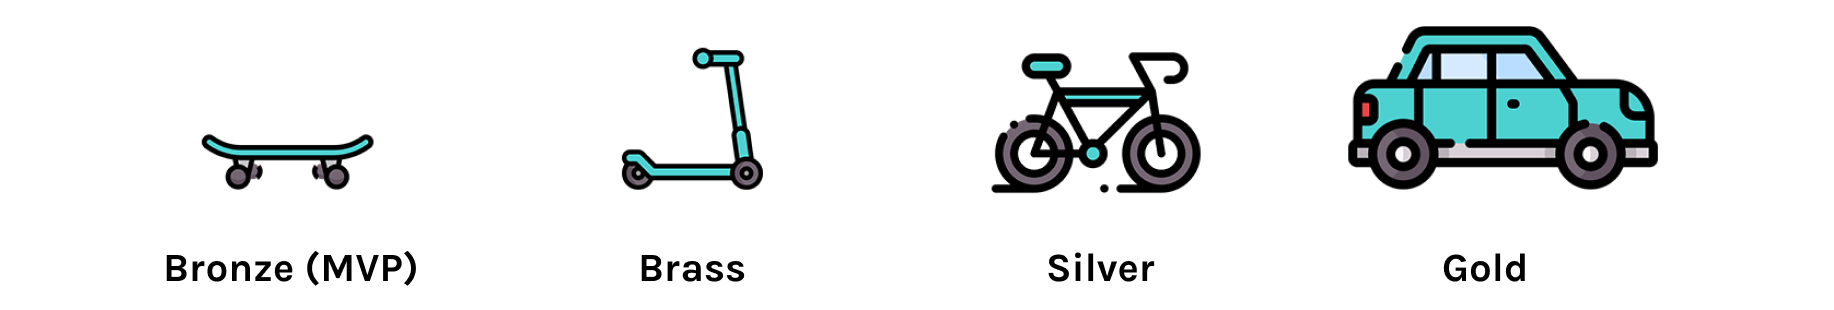
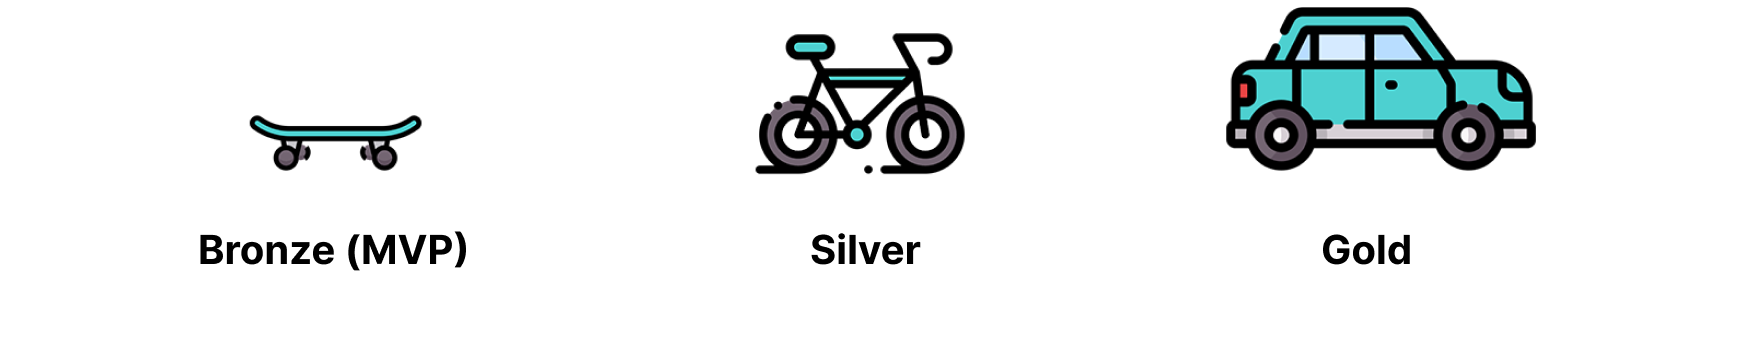
Sept 20

diff --git a/lbt.html b/lbt.html
@@ -232,8 +232,8 @@
             <div class="latest"></div>
             <div class="as-of">
                 <div class="stuff">
-                    Working alonside the product manager, we devised a roadmap to iterate and deploy 4 versions of
-                    LBT: Bronze (MVP), Brass, Silver, and Gold. Each deployment was scoped with their own feature sets
+                    Working alonside the product manager, we devised a roadmap to iterate and deploy 3 versions of
+                    LBT: Bronze (MVP), Silver, and Gold. Each deployment was scoped with their own feature sets
                     to ensure that LCOs were delivered their “must-haves” at the very least.
 
                 </div>
@@ -317,7 +317,7 @@
                 </div>
             </div>
 
-            <div class="title">Brass</div>
+            <div class="title">Silver</div>
 
             <div class="latest">
                 <div class="columns-2">
@@ -358,7 +358,8 @@
 
                         <div class="stuff">
                             However, unlike Bronze, where a PDF of a single label is immediately downloaded upon
-                            print confirmation, in Brass, when a product is selected, they are added to a Printing List.
+                            print confirmation, in Silver, when a product is selected, they are added to a Printing
+                            List.
                             <br><br>
 
                             When the user proceeds to print, all items in
@@ -373,13 +374,13 @@
                         </div>
 
                         <div class="prototype2">
-                            <img src="images/option 1.png">
+                            <img src="images/first it.png">
                         </div>
                         <div class="prototype2">
-                            <img src="images/option 2.png">
+                            <img src="images/second it.png">
                         </div>
                         <div class="prototype2">
-                            <img src="images/option 3.png">
+                            <img src="images/final it.png">
                         </div>
 
 
@@ -410,17 +411,18 @@
                 <img src="images/explorations.png">
             </div> -->
 
-            <div class="title">Silver</div>
+            <div class="title">Gold</div>
             <div class="latest">
                 <div class="columns-2">
                     <div class="as-of">
                         <div class="stuff">
-                            Brass hit the mark with multilabel printing, however, LBT didn't quite address the problem
+                            Silver hit the mark with multilabel printing, however, LBT didn't quite address the problem
                             LCOs faced in terms of how they are working around price updates. As mentioned earlier, when
                             LCOs couldn't receive updated labels in time, they would purchase blank labels and updated
                             prices themselves. <br> <br>
 
-                            With LBT’s Brass version, LCOs were only able to print the live price of a product. To truly
+                            With LBT’s Silver version, LCOs were only able to print the live price of a product. To
+                            truly
                             solve this issue, LCOs need to be able to print labels with upcoming prices ahead of time.
                             <br> <br>
                         </div>
@@ -432,7 +434,7 @@
                         </div>
 
                         <div class="stuff">
-                            Silver implements a Price Update Portal available only to pricing
+                            Gold implements a Price Update Portal available only to pricing
                             administration where they can update upcoming prices on the LBT database.
 
                         </div>
@@ -484,8 +486,9 @@
                         <div class="stuff">
                             Data collected from event tracking guided decisions throughout the entire design process.
                             For instance, I noticed that new users were repeatedly selecting and deselecting items from
-                            theier printing list. I realized that the reason why they were doing this was because they
-                            were expecting some form of feedback to notify that the item has been added to their list.
+                            theier printing list. They were unsure if a product was successfully added to their list.
+                            They were expecting some form of feedback to notify that the item has been added to their
+                            list.
 
                         </div>
                         <div class="prototype2">
@@ -506,7 +509,8 @@
                     <div class="as-of">
                         <div class="stuff">
                             Quantitative data is also a great indicator of sucess. The product manager and I tracked key
-                            performance indicators (conversion rates, weekly active users, activity per session, etc) to
+                            performance indicators (conversion rates, weekly active users, activity per session, etc.)
+                            to
                             determine the success of LBT. <br><br>
 
                         </div>
@@ -520,28 +524,27 @@
 
 
             <div class="title">
-                Next Steps: Gold
+                Next Steps
             </div>
 
             <div class="latest">
                 <div class="columns-2">
                     <div class="as-of">
                         <div class="stuff">
-                            After four months, my internship was coming to an end. The team was only able to deploy
-                            silver,
-                            with Gold features set, however not implemented. These features included:
+                            After four months, my internship was coming to an end. Future features were set, however not
+                            implemented. These included:
                         </div>
 
                         <div class="stuff">
-                            <li> <span>Offering Bilingual Support (English and French)</span>
+                            <li> <span>Bilingual support (English and French)</span>
                             </li>
-                            <li> <span>Considering Limited Time Offer Bin Tags</span>
+                            <li> <span>Limited Time Offer + sale tags</span>
                             </li>
                             <li> <span>A way for LCOs to curate lists specific to their inventory</span>
                             </li>
-                            <li> <span>Fuzzy Search</span>
+                            <li> <span>Fuzzy + autocomplete search</span>
                             </li>
-                            <li> <span>Autcomplete Search</span>
+                            <li> <span>Algorithms for the portal to suggest most frequently printed labels.</span>
                             </li>
                         </div>
 
@@ -556,23 +559,14 @@
                 <div class="columns-2">
                     <div class="as-of">
                         <div class="stuff">
-                            With such a tight time constraint, I quickly
-                            learned that the trying to "designing faster" was not the approach I should be taking.
-                            Trying to
-                            do the same amount of work but in a shorter amount of time only led to more stress, less
-                            sleep,
-                            and rushed, unrefined work. <br> <br>
-
-                            Instead, I learned to pick and choose my battles. Since LCOs was a user group that the
-                            product
-                            team was not familliar with, I invested my time in user research. Although this left less
-                            time for visual exploration, I embraced design resources and previous visual components that
-                            I knew were validated by research.<br> <br>
-
-                            I also learned to ask better questions, articulate my
-                            thoughts clearer, communicate my problems sooner, and make validated decisions faster - all
-                            in
-                            efforts to make less room for miscommunication and error. <br> <br>
+                            This project taught me how to juggle trade offs and adapt. Inevitably, not everything was
+                            able to be included in the scope and it was up to me to know what to fight for, what to let
+                            go of, and how to make those decisions. For instance, my original designs included an
+                            onboarding experience and tooltips to guide users on the new platform. However, from a
+                            development standpoint, there simply was not enough time. From there, I focused on making
+                            tasks as straightforward as possible with thorough instructions, explicit labels, and I
+                            opted for a PDF support guide instead.
+                            <br> <br>
                         </div>
                     </div>
                 </div>
